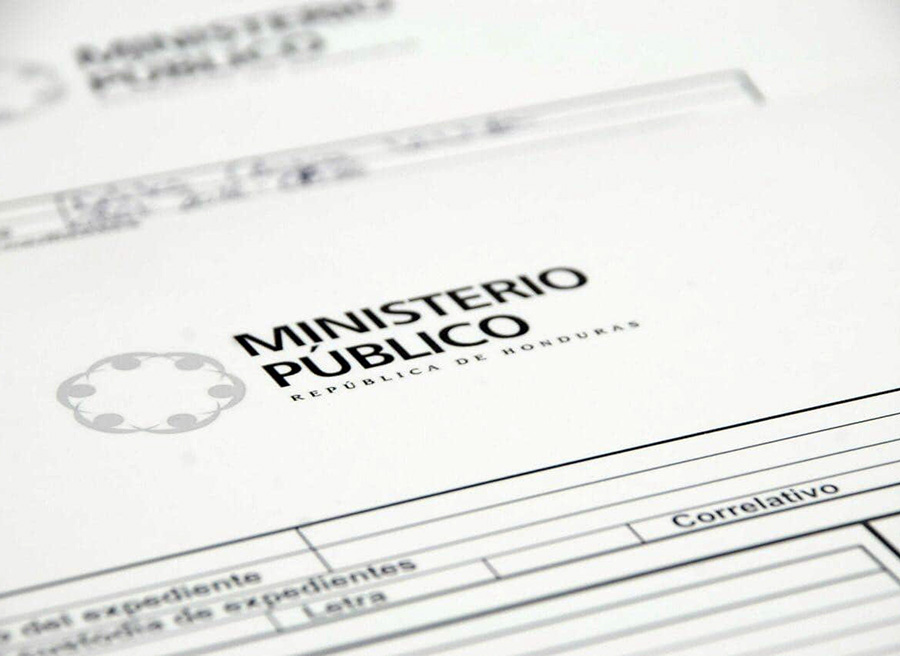
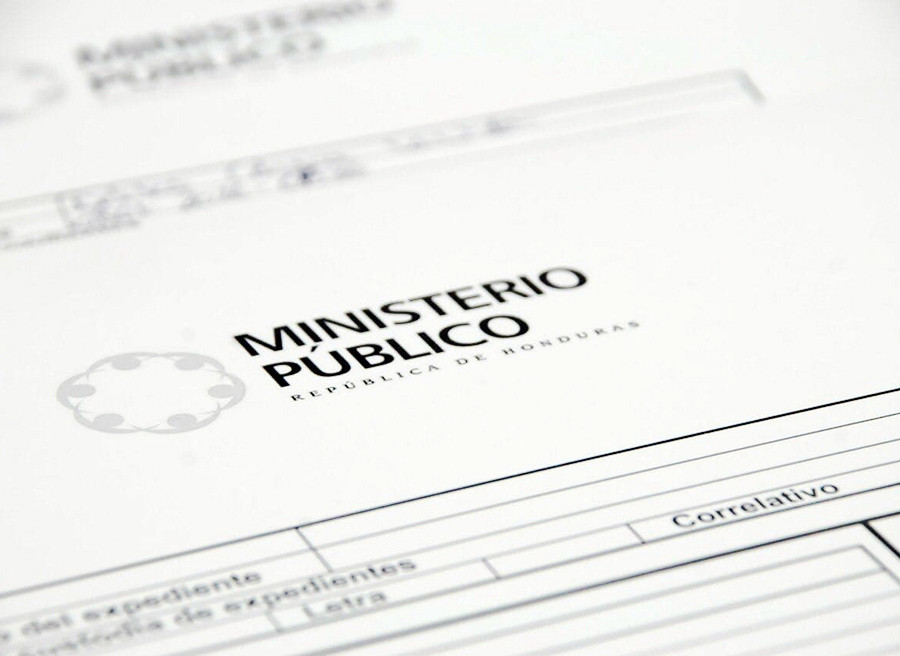
Login

diff --git a/index.php b/index.php
@@ -23,10 +23,27 @@
     <link href="css/bootstrap.min.css" rel="stylesheet">
     <link href="css/custom.css" rel="stylesheet">
     <link href="http://netdna.bootstrapcdn.com/font-awesome/4.0.3/css/font-awesome.css" rel="stylesheet">
-    
+    <style type="text/css">
+      img.zoom {
+    width: 100%;
+    height: 100%;
+    -webkit-transition: all .2s ease-in-out;
+    -moz-transition: all .2s ease-in-out;
+    -o-transition: all .2s ease-in-out;
+    -ms-transition: all .2s ease-in-out;
+}
+ 
+.transition {
+    -webkit-transform: scale(1.8); 
+    -moz-transform: scale(1.8);
+    -o-transform: scale(1.8);
+    transform: scale(1.8);
+}
+    </style>  
 
   </head>
- <body class="cover" style="background-image: url(img/ministerio-público.jpg); ">  
+ <body >  
+  <img src="img/ministerio-público.jpg" class="zoom"/>
   <?php 
 include('validarnavegador.php');
 $opbeterNavegador= getBrowser($user_agent);
